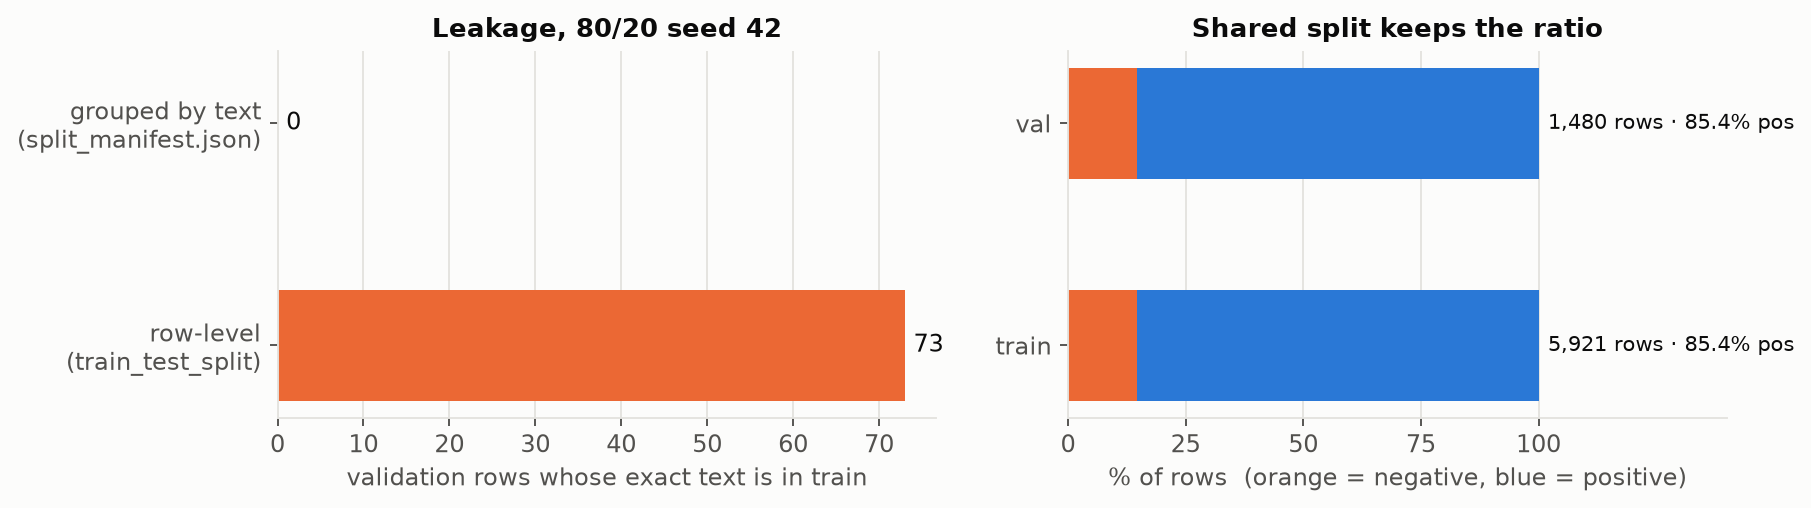
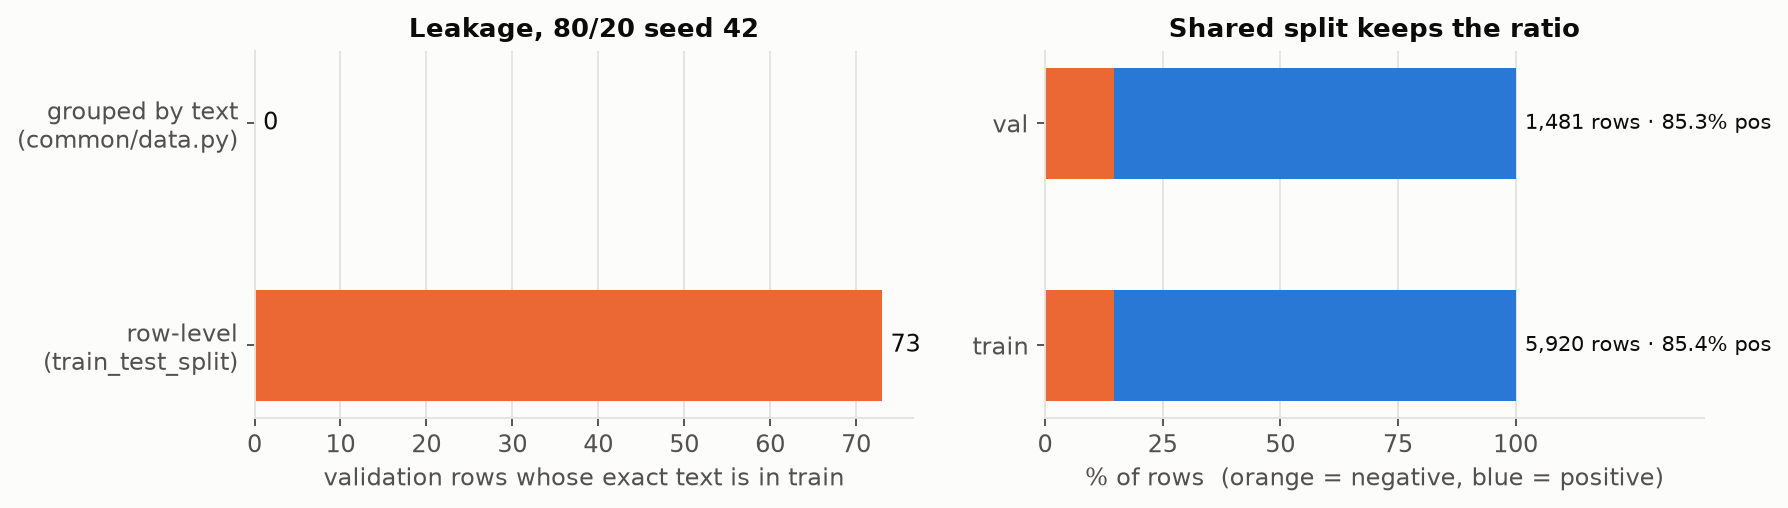
Keep data analysis files as on main (owned by Person 1)

diff --git a/data_analysis/data_analysis.md b/data_analysis/data_analysis.md
@@ -73,21 +73,21 @@ Negative reviews are longer at the median. People explain what went wrong.
 ![duplicates](figures/04_duplicates.png)
 
 A normal stratified split puts copies of the same review on both sides, so validation rewards memorisation.
-The shared split (`analysis/split_data.py` → `data/split_manifest.json`, `train_splitted.json`, `valid_splitted.json`) is therefore **stratified + grouped by exact text, 80/20, seed 42**.
+The shared split (`common/data.py` → `data/split.json`) is therefore **stratified + grouped by exact text, 80/20, seed 42**.
 
 ![split](figures/05_split.png)
 
 | | Row-level split (`train_test_split`) | **Shared grouped split** |
 |---|---|---|
-| Train / val rows | 5,920 / 1,481 | **5,921 / 1,480** |
-| Val negative / positive | 217 / 1,264 | **216 / 1,264** |
+| Train / val rows | 5,920 / 1,481 | **5,920 / 1,481** |
+| Val negative / positive | 217 / 1,264 | **217 / 1,264** |
 | Val rows whose text is in train | 73 | **0** |
 
 Rules for everyone:
-- Use the saved split files (Python: `common.data.get_split()`). Never re-split.
+- Use `get_split()` only. Never re-split.
 - Fit the vocabulary, TF-IDF and class weights on the **train side only**.
 - Keep test out of every decision.
-- Val has only 216 negatives, so **1 missed negative = 0.46 pp of negative recall**. Small differences between models are noise; compare over several seeds.
+- Val has only 217 negatives, so **1 missed negative = 0.46 pp of negative recall**. Small differences between models are noise; compare over several seeds.
 
 ## 4. What the words say (Naive Bayes view)
 
@@ -108,12 +108,12 @@ Bayes' rule with the naive independence assumption scores each word by its log-l
 
 ![vocab](figures/08_vocab.png)
 
-Word frequency follows **Zipf's law**: 6,070 words appear only once.
+Word frequency follows **Zipf's law**: 6,012 words appear only once.
 
 | `min_freq` | 1 | **2** | 3 | 5 | 10 |
 |---|---|---|---|---|---|
-| Vocabulary size (train split) | 13,095 | **7,025** | 5,206 | 3,711 | 2,297 |
-| Val tokens → `<unk>` | 1.9% | **2.8%** | 3.6% | 4.8% | 7.3% |
+| Vocabulary size (train split) | 12,910 | **6,898** | 5,153 | 3,676 | 2,305 |
+| Val tokens → `<unk>` | 2.0% | **3.1%** | 3.8% | 5.1% | 7.4% |
 
 `min_freq = 2` halves the vocabulary (fewer embedding parameters, less overfitting) at the cost of only about 1 pp more unknown words.
 
@@ -147,9 +147,9 @@ The clusters are **product topics** (shoes, bras, bags, shirts). Every cluster h
 | Section | Use |
 |---|---|
 | (a) preprocessing | lowercase; keep negations and `!`/`?`; no HTML cleaning needed; vocabulary from train only, `min_freq=2`; `max_len` 150–200 |
-| (c) tuning | select on **val macro-F1**; 216 val negatives → average over seeds; regularize (vocabulary pruning, dropout, L2, early stopping) |
+| (c) tuning | select on **val macro-F1**; 217 val negatives → average over seeds; regularize (vocabulary pruning, dropout, L2, early stopping) |
 | (e) examples | avoid the 101 test reviews that are copies of train reviews; use negation ("not bad") and contrast ("great but ripped") cases |
-| (f) features | TF-IDF ≈ 38k sparse dims (uni+bigram) vs GRU 7.0k-word vocabulary with dense embeddings |
+| (f) features | TF-IDF ≈ 38k sparse dims (uni+bigram) vs GRU 6.9k-word vocabulary with dense embeddings |
 | (g) no labels | clusters = topics, not sentiment (Section 6) → domain adaptation / pseudo-labels |
 | (h) noisy labels | labels come from star ratings (Blitzer et al. 2007), so some noise already exists; Section 3's duplicates have consistent labels |
 
